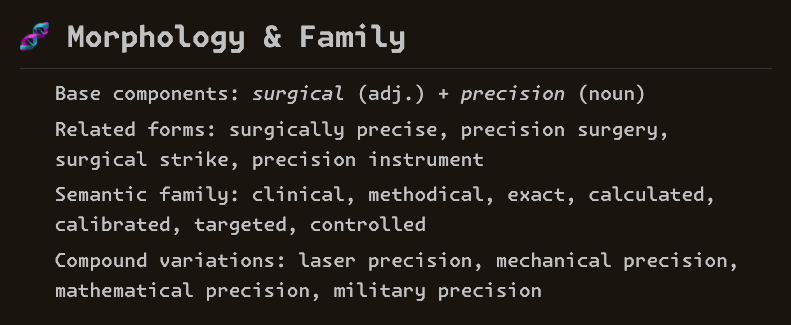
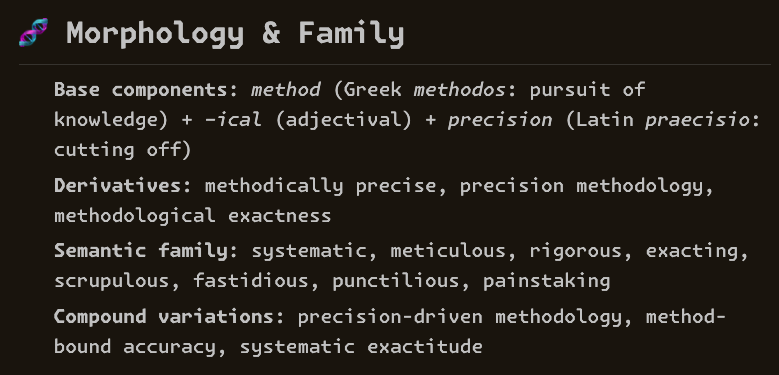
docs: update dictionary guide with methodical precision example
- Replace surgical precision screenshots with methodical precision
- Update hero image to show Mr. Scrumpsher scene context
- Add second output example with collapsible details sections
- Update section descriptions (12 sections vs 14)
- AI Advisory Notes now includes alternative phrasings

Screenshots now demonstrate scene-specific context analysis
with character action, making the guide more compelling.

🤖 Generated with [Claude Code](https://claude.com/claude-code)

diff --git a/docs/user-guides/dictionary-lookup-phrase-and-alternatives/README.md b/docs/user-guides/dictionary-lookup-phrase-and-alternatives/README.md
@@ -36,9 +36,9 @@ In the **Optional Context** field, provide:
 This context helps the AI tailor its alternatives to your specific use case.
 
 **Example context from the screenshot:**
-> *I want to re-word the descriptor surgical precision in this sentence can you provide some options:*
+> *I want to re-word the descriptor methodical precision in this sentence can you provide some options?*
 >
-> *"She reached over without warning and plucked at his arm hair with surgical precision"*
+> *"As Nate moved to follow, he caught Mr. Scrumpsher erasing the board with methodical precision. The teacher paused at the empty circle, staring at it for a long moment before deliberately wiping it away with a single sweep of the eraser."*
 
 ### Step 3: Run the Lookup
 
@@ -82,7 +82,7 @@ This is invaluable for understanding the full semantic range of your phrase.
 ![Register & Connotation](../../../screenshots/dictionary/section-04-register-connotation.png)
 
 **Tonal sliders** provide at-a-glance insight into the phrase's emotional weight:
-- Coldness, Admiration, Detachment, Efficiency (in this example)
+- Formality, Coldness, Authority, Obsessiveness, Trustworthiness (varies by phrase)
 - Helps you quickly assess if the phrase matches your intended tone
 
 ### Narrative Texture
@@ -146,37 +146,26 @@ Visual scales showing where your phrase sits on relevant spectrums:
 
 Helps you find alternatives that shift the intensity in either direction.
 
-### AI Advisory Notes
+### AI Advisory Notes & Alternative Phrasings
 ![AI Advisory Notes](../../../screenshots/dictionary/section-12-ai-advisory-notes.png)
 
-Context-aware analysis of your specific sentence:
-- How the phrase interacts with other elements
-- What it emphasizes or undermines
-- Suggestions for what to consider
+**The key deliverable when requesting alternatives.** This section provides:
 
-### Alternative Phrasings for Your Context
-![Alternative Phrasings](../../../screenshots/dictionary/section-13-alternative-phrasings.png)
+- Context-aware analysis of your specific sentence
+- Single-word and two-word replacement options
+- "Show don't tell" action alternatives
+- Contextual recommendations tailored to your scene
 
-**The key deliverable when requesting alternatives.** Organized by emphases related to phrase:
-- For cold efficiency
-- For cruelty/power
-- For skill
-- For intimacy violation
-- For surprise/speed
-- For sensory freshness
-- For humor/absurdity
-- For gothic/dark romance
-
-### Final Recommendation
-![Recommendation](../../../screenshots/dictionary/section-14-recommendation.png)
-
-A synthesized recommendation based on your specific context, weighing the trade-offs between instant recognition and memorable originality.
+The AI analyzes how your phrase interacts with surrounding elements and suggests alternatives organized by what you want to emphasize (ritual, obsession, emotion, etc.).
 
 ---
 
-## Output
+## Output Examples
 
-The full output for this example is shown below. You can copy this to your notes or export it using the clipboard buttons in the Dictionary panel.
+The full outputs are shown below. You can copy these to your notes or export using the clipboard buttons in the Dictionary panel.
+
+<details>
+<summary><strong>Example 1: "surgical precision"</strong> — Intimate action with clinical distance</summary>
 
 ---
 
@@ -372,3 +361,201 @@ approximate → careful → meticulous → **surgical precision** → atomic acc
 Given the intimate, potentially unsettling nature of the action, consider whether "surgical precision" serves your tonal goals. If you want **clinical coldness**, keep it or swap to "clinical detachment." If you want **playful cruelty**, try "sadistic exactitude" or "predatory care." If you want **speed**, use "cobra-strike swiftness." If you want **fresh imagery**, consider "pickpocket dexterity" or "as if plucking harp strings."
 
 The phrase's strength is its immediate clarity; its weakness is its ubiquity. Choose based on whether you prioritize **instant recognition** or **memorable originality**.
+
+</details>
+
+<details>
+<summary><strong>Example 2: "methodical precision"</strong> — Scene-specific context with character action (recommended)</summary>
+
+---
+
+# Prose Minion | Writer's Dictionary Lookup
+
+# Phrase: *methodical precision*
+
+## Optional Context ( user provided )
+
+*I want to re-word the descriptor methodical precision in this sentence can you provide some options? 
+
+"As Nate moved to follow, he caught Mr. Scrumpsher erasing the board with methodical precision. The teacher paused at the empty circle, staring at it for a long moment before deliberately wiping it away with a single sweep of the eraser."*
+
+## 📕 Definition  
+A compound descriptor denoting systematic, orderly action executed with exacting accuracy; the intersection of deliberate process and flawless calibration; action characterized by both careful sequencing and unwavering exactitude.
+
+## 🔈 Pronunciation  
+- IPA: `/məˈθɒdɪkəl prɪˈsɪʒən/`  
+- Phonetic: *muh-THOD-ih-kuhl prih-SIZH-uhn*  
+- Syllables: 8 total (4 + 4)  
+- Stress: Secondary-primary, secondary-primary pattern  
+- Audio cues: Rhythmic alternation; dental fricatives create measured, clinical mouthfeel
+
+## 🧩 Parts of Speech  
+- **Noun phrase** (adjectival modifier + abstract noun): Functions as descriptor of action, process, or character trait  
+- **Adverbial construction** (when preceded by "with"): Modifies verbs to specify manner of execution
+
+## 🔍 Sense Explorer  
+
+1. **Systematic exactitude in physical action**  
+   - *Definition*: Performing tasks with both ordered methodology and pinpoint accuracy.  
+   - *Example*: *The surgeon approached the incision with methodical precision, each movement anticipated three steps ahead.*  
+   - *Synonyms*: systematic accuracy, deliberate exactness, measured care, calculated finesse, orderly meticulousness, disciplined rigor, structured thoroughness, choreographed accuracy, regimented perfection, careful calibration, planned exactitude, controlled mastery  
+   - *Antonyms*: haphazard carelessness, chaotic sloppiness, impulsive recklessness, spontaneous abandon, frenzied disorder, erratic fumbling  
+   - *Nuance*: Implies conscious control and rehearsed competence; suggests character who values process over speed.
+
+2. **Psychological/character trait**  
+   - *Definition*: Habitual disposition toward ordered thinking and exacting execution.  
+   - *Example*: *Her methodical precision made her invaluable during crises, though exhausting at dinner parties.*  
+   - *Synonyms*: systematic temperament, ordered mindset, disciplined nature, meticulous disposition, regimented personality, fastidious character, structured approach, calibrated thinking, procedural bent, detail-oriented focus, exacting mentality, process-driven psychology  
+   - *Antonyms*: spontaneous nature, chaotic temperament, improvisational spirit, loose approach, flexible mindset, adaptive fluidity  
+   - *Nuance*: Can read as admirable competence or obsessive rigidity depending on context and tone.
+
+3. **Ritualistic/ceremonial action**  
+   - *Definition*: Performing repetitive or symbolic acts with reverential exactitude.  
+   - *Example*: *He folded each letter with methodical precision, as though the creases themselves held meaning.*  
+   - *Synonyms*: ritualistic care, ceremonial exactness, reverential thoroughness, liturgical attention, practiced solemnity, habitual devotion, customary rigor, traditional meticulousness, prescribed accuracy, routine sanctity, formal discipline, codified carefulness  
+   - *Antonyms*: casual handling, irreverent haste, dismissive carelessness, profane sloppiness, impromptu treatment, informal looseness  
+   - *Nuance*: Elevates mundane actions to significance through obsessive attention; suggests hidden meaning or psychological compulsion.
+
+4. **Technical/professional competence**  
+   - *Definition*: Expertise demonstrated through flawless procedural execution.  
+   - *Example*: *The watchmaker's methodical precision transformed scattered gears into synchronized harmony.*  
+   - *Synonyms*: professional exactitude, expert calibration, masterly accuracy, skilled thoroughness, trained meticulousness, practiced perfection, technical rigor, specialist care, artisanal discipline, craftsman's attention, virtuosic control, adept finesse  
+   - *Antonyms*: amateur fumbling, novice clumsiness, untrained sloppiness, apprentice errors, dilettante carelessness, beginner uncertainty  
+   - *Nuance*: Connotes years of practice; implies muscle memory and unconscious competence made visible.
+
+## 🗣 Register & Connotation  
+- **Registers**: Formal-to-neutral; clinical in technical contexts; potentially ironic in casual speech  
+- **Emotional valence**: Neutral-to-positive (competence, control) or negative (obsessiveness, rigidity)  
+- **Tonal sliders**:  
+  - Formality: ████████░░ (80%)  
+  - Coldness: ██████░░░░ (60%)  
+  - Authority: ████████░░ (80%)  
+  - Obsessiveness: ███████░░░ (70%)  
+  - Trustworthiness: ███████░░░ (70%)
+
+## 🪶 Narrative Texture  
+- **Sensory tags**: Visual (primary), kinesthetic, temporal (pacing)  
+- **Mood levers**: Control vs. compulsion, competence vs. rigidity, calm vs. coldness, mastery vs. mania  
+- **Symbolism**: Order imposed on chaos, repression, perfectionism, hidden trauma (when excessive), professional identity, ritualistic coping  
+- **Genre pointers**: Thrillers (serial killers, forensic experts), literary fiction (character studies), mystery (detective methodologies), horror (obsessive behaviors), sci-fi (AI/android movements)  
+- **Pacing impact**: Slows narrative tempo; creates pregnant pauses; builds tension through deliberation
+
+## 📚 Collocations & Idioms  
+- **High-value collocations**: *with methodical precision*, *methodical precision of*, *approached with methodical precision*, *executed with methodical precision*, *moved with methodical precision*  
+- **Semantic neighbors**: clinical detachment, surgical accuracy, clockwork regularity, mechanical efficiency  
+- **Clichés to avoid/refresh**:  
+  - **Tired**: "with methodical precision" (overused in thriller/mystery)  
+  - **Refreshed**: "with calibrated intent," "in measured increments," "through ritualized care," "via practiced geometry"  
+- **Context-specific warning**: In your sentence, the phrase risks redundancy—both words emphasize similar qualities. Consider splitting the attributes or replacing entirely.
+
+## 🧬 Morphology & Family  
+- **Base components**: *method* (Greek *methodos*: pursuit of knowledge) + *-ical* (adjectival) + *precision* (Latin *praecisio*: cutting off)  
+- **Derivatives**: methodically precise, precision methodology, methodological exactness  
+- **Semantic family**: systematic, meticulous, rigorous, exacting, scrupulous, fastidious, punctilious, painstaking  
+- **Compound variations**: precision-driven methodology, method-bound accuracy, systematic exactitude
+
+## 🎭 Character Voice Variations  
+
+**For the Mr. Scrumpsher scene specifically:**
+
+1. **Academic theorist**: "The teacher's erasure followed algorithmic protocol—each stroke predetermined."  
+2. **Hardboiled detective**: "Scrumpsher wiped that board like he was erasing a witness."  
+3. **Teen slangster**: "Mr. S was, like, weirdly obsessed with getting every speck of chalk off."  
+4. **Lyrical poet**: "He swept the board clean with a monk's devotion to emptiness."  
+5. **Battlefield commander**: "The teacher cleared the board with tactical efficiency—no wasted motion."  
+6. **Whimsical fae guide**: "Each stroke sang a little song of order, dust motes dancing their obedience."  
+7. **Villainous mastermind**: "Scrumpsher erased with the same care he'd use removing evidence."  
+8. **AI concierge**: "Erasure pattern: optimal. Surface restoration: 99.7% complete."  
+9. **Southern Gothic narrator**: "He worried that board like a man trying to rub out sin itself."  
+10. **Noir journalist**: "The chalk disappeared under his hand like secrets under subpoena."  
+11. **Clinical psychologist**: "The repetitive erasure displayed classic displacement behavior—anxiety channeled through ritual."  
+12. **Cosmic horror observer**: "The teacher unmade each symbol with ceremonial care, as though the equations themselves might notice."
+
+## 🎵 Soundplay & Rhyme  
+- **Assonance**: The long *e* sounds (*me-THOD-i-cal*) create measured, thoughtful pacing  
+- **Consonance**: Dental/alveolar clusters (*d-k-l*, *pr-s-zh-n*) produce crisp, technical mouthfeel  
+- **Alliterative partners**: measured movements, practiced patience, calibrated care, deliberate discipline, systematic sweeps, ordered operations  
+- **Rhythm note**: The phrase's eight syllables create natural caesura—ideal for slowing narrative tempo
+
+## 🌐 Translations & Cognates  
+- **French**: *précision méthodique* (same word order; emphasizes precision first in common usage)  
+- **Spanish**: *precisión metódica* (precision-first construction)  
+- **German**: *methodische Präzision* (method-first; culturally resonant with engineering precision)  
+- **Japanese**: 几帳面な正確さ (*kichōmen na seikaku-sa*: scrupulous accuracy; 系統的精密 *keitō-teki seimitsu*: systematic precision)  
+- **Nuance**: Romance languages tend to front "precision"; Germanic languages front "methodical." Japanese distinguishes personality trait from action quality.
+
+## ⚠ Usage Watchpoints  
+
+### For your specific sentence:
+1. **Redundancy alert**: "Methodical" already implies careful process; "precision" adds exactitude. Together they're emphatic but potentially redundant. Consider whether you need *both* qualities or if one suffices.
+
+2. **Pacing concern**: The phrase slows the sentence significantly. If Mr. Scrumpsher's action should feel ominous or obsessive, this works. If you want quicker pacing, trim to one descriptor.
+
+3. **Character revelation**: The phrase suggests Mr. Scrumpsher is:
+   - Habitually controlled (positive reading)  
+   - Obsessively rigid (negative reading)  
+   - Performing a ritual (symbolic reading)  
+   - Hiding something through over-control (suspicious reading)
+
+4. **Tonal shift risk**: Moving from Nate's observation to this formal phrase creates distance. If Nate is your POV character, consider whether *he* would think in these terms or if you want omniscient narrative voice here.
+
+### General warnings:
+- **Overuse in genre fiction**: Thriller/mystery writers lean on this phrase heavily for villain characterization  
+- **Clinical coldness**: Can make characters feel robotic if overused  
+- **Show vs. tell**: The phrase *tells* us about precision rather than *showing* it through specific action details  
+- **Adverb proximity**: Avoid stacking with other -ly adverbs ("slowly and methodically with methodical precision")
+
+## 🧭 Semantic Gradient  
+
+**Intensity scale (weak → strong):**  
+casual care → careful attention → deliberate focus → systematic approach → **methodical precision** → obsessive exactitude → compulsive perfectionism → pathological rigidity → ritualistic mania
+
+**Warmth scale (warm → cold):**  
+loving attention → gentle care → focused diligence → professional competence → **methodical precision** → clinical detachment → mechanical efficiency → robotic execution → inhuman automation
+
+**Speed scale (fast → slow):**  
+efficient speed → practiced fluency → measured pace → deliberate tempo → **methodical precision** → painstaking slowness → laborious crawl → glacial progression
+
+## 🧠 AI Advisory Notes  
+
+### For your specific revision task:
+
+**Single-word alternatives** (maintaining formality):
+- *ritualistic* (adds ceremonial weight)
+- *practiced* (suggests habit/routine)
+- *deliberate* (emphasizes intentionality)
+- *measured* (suggests careful pacing)
+- *systematic* (emphasizes process)
+- *exacting* (emphasizes standards)
+
+**Two-word alternatives** (splitting the qualities):
+- *careful geometry* (visual + mathematical)
+- *practiced ritual* (habit + ceremony)
+- *calibrated intent* (precision + purpose)
+- *measured devotion* (pacing + intensity)
+- *systematic reverence* (method + meaning)
+- *deliberate ceremony* (intention + ritual)
+- *habitual exactness* (routine + precision)
+- *clockwork solemnity* (mechanical + serious)
+- *studied care* (learned + attentive)
+- *rehearsed thoroughness* (practiced + complete)
+
+**Descriptive action alternatives** (show don't tell):
+- "...erasing the board in straight, even strokes"
+- "...wiping the board clean with three measured sweeps"
+- "...clearing the board as though following invisible guidelines"
+- "...erasing each symbol in sequence, left to right, top to bottom"
+- "...working the eraser across the board like a metronome"
+
+**Contextual recommendations**:
+Given that Mr. Scrumpsher *pauses* at the empty circle and *deliberately* wipes it away, you're already showing precision and intent. The phrase "methodical precision" may be redundant. Consider:
+
+1. **Emphasize the ritual**: "...erasing the board with ritualistic care"
+2. **Emphasize the obsession**: "...erasing the board as though each stroke mattered"
+3. **Emphasize the contrast**: "...erasing the board with unusual thoroughness" (if this differs from his normal behavior)
+4. **Emphasize the emotion**: "...erasing the board with grim determination"
+5. **Emphasize the performance**: "...erasing the board as though someone were watching"
+
+**Verification needed**: Etymology of "methodical" is well-established; "precision" from Latin *praecidere* is standard. Japanese equivalents simplified for clarity—consult native speaker for nuanced contexts.
+
+</details>
